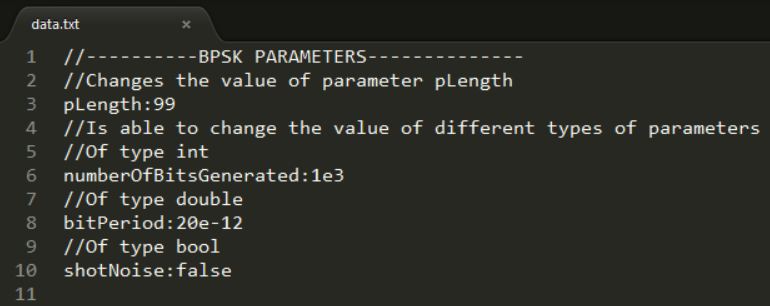
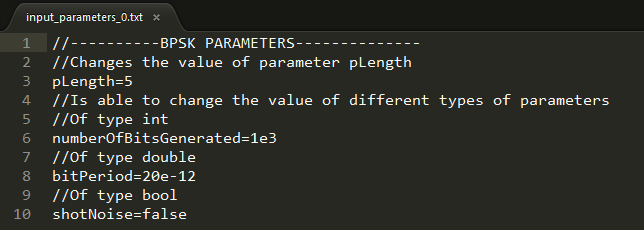
Updated logfile and IPS documentation

Changed region(s): [[0.0, 0.1522, 0.9938, 1.0], [0.0311, 0.0609, 0.2484, 0.1217], [0.0311, 0.0, 0.2795, 0.0304]]

diff --git a/doc/tex/chapter/simulator_structure/simulator_structure.tex b/doc/tex/chapter/simulator_structure/simulator_structure.tex
@@ -1,3 +1,6 @@
+\definecolor{dkgreen}{rgb}{0,0.6,0}
+\definecolor{gray}{rgb}{0.5,0.5,0.5}
+\definecolor{mauve}{rgb}{0.58,0,0.82}
 
 % ------------------------------------------------------------------------
 \chapter{Simulator Structure}
@@ -96,6 +99,15 @@ Figure \ref{fig:homodynesignals} shows a portion of code that consists in the de
 \label{fig:homodynesignals}
 \end{figure}
 
+The list of the input parameters loaded from a file is presented at the top of the output file, as shown in Figure \ref{fig:changedinputparameters}.
+
+\begin{figure}[H]
+\centering
+\includegraphics[width=.50\linewidth]{./chapter/simulator_structure/figures/logfile_input_parameters_changed}
+\caption{Four input parameters where loaded from a file}
+\label{fig:changedinputparameters}
+\end{figure}
+
 \subsection{Testing Log File}
 In directory \textit{doc/tex/chapter/simulator\_structure/test\_log\_file/bpsk\_system/} there is a copy of the BPSK system. You may use it to test the Log File. The main method is located in file \textit{bpsk\_system\_sdf.cpp}
 
@@ -107,114 +119,155 @@ In directory \textit{doc/tex/chapter/simulator\_structure/test\_log\_file/bpsk\_
 % ---------------------------------------------------------------------
 \section{Input Parameters System}
 \subsection{Introduction}
-Each system contains a set of parameters that are used to change its behaviour.
-These parameters are variables whose values may be changed in the code. The Input Parameters System (IPS) allows
-for the parameters to be read from a file, i.e., it is not necessary to change the code in order to change the value
-of the parameters.
-
-\subsection{How To Include The IPS In Your System}
-In order to use the IPS in your system some requirements must be met. For this example we will be using the BPSK system:
-\begin{enumerate}
-\item Your system must include \textbf{netxpto\_20180418.h}. Previous versions of netxpto do not support the IPS.
-\item Create a class that will contain the system parameters. This class must be a derived class of \textbf{SystemParameters}. In this case the created class is called \textbf{BPSKParameters}.
-
-\renewcommand{\figurename}{Figure}
-\begin{figure}[H]
-\centering
-\includegraphics[width=0.7\linewidth]{./chapter/simulator_structure/figures/bpsk_parameter_system}
-\caption{BPSKParameters class is a derived class of SystemParameters}
-\label{fig:ipsderivedclass}
-\end{figure}
-
-\item The created class must have 2 constructors: one that receives no arguments and calls the method \textbf{initializeParameterMap()}; one that receives a string as argument and calls methods \textbf{initializeParameterMap()} and \textbf{readSystemInputParameters(string filename)}. Note that method $\textbf{readSystemInputParameters(string filename)}$ is already implemented and may be called by the user. Only the method \textbf{initializeParameterMap()} must be implemented. An example is shown in Figure \ref{fig:ipsconstructors}.
-
-\renewcommand{\figurename}{Figure}
-\begin{figure}[H]
-\centering
-\includegraphics[width=0.7\linewidth]{./chapter/simulator_structure/figures/bpsk_parameters_constructor}
-\caption{BPSKParameters has 2 constructors}
-\label{fig:ipsconstructors}
-\end{figure}
-
-\item The created class must contain the method \textbf{initializeParameterMap()} that will add all your system's parameters.
-You must implement this method by yourself. To add a parameter you must call \textbf{addParameter(paramName,paramAddress)}, where \textbf{paramName} is a string that represents the name of your parameter and paramAdress is the address of your parameter variable.
-For example, if I want to add the following parameter \textbf{\textit{int} amplitude = 90}, I must call \textbf{addParameter(``amplitude'',\&amplitude)}. Note: Only parameters of types \textbf{int}, \textbf{double} and \textbf{bool} are supported by the IPS. Parameters that are not of these types cannot be added in \textbf{initializeParameterMap()}.
-
-\renewcommand{\figurename}{Figure}
-\begin{figure}[H]
-\centering
-\includegraphics[width=0.8\linewidth]{./chapter/simulator_structure/figures/bpsk_initialize_parameters}
-\caption{All parameters from BPSKParameters are being added}
-\label{fig:ipsparameters}
-\end{figure}
-\end{enumerate}
-
-\begin{table}[H]
-\centering
-\begin{tabulary}{1.0\textwidth}{|p{9cm}|p{1cm}|p{5cm}|}
-\hline
-\multicolumn{3}{|c|}{ \textbf{SystemParameters - Available Methods} } \\
-\hline
-\textbf{Method}                                 & \textbf{Type} & \textbf{Comments} \\ \hline
-addParameter(string name, int* variable)        & void          & Adds a parameter whose value is of type int\\ \hline
-addParameter(string name, double* variable)     & void	        & Adds a parameter whose value is of type double\\ \hline
-addParameter(string name, bool* variable)       & void	        & Adds a parameter whose value is of type bool\\ \hline
-readSystemInputParameters(string inputFilename) & void	        & Reads the parameters from a file.\\ \hline
-\end{tabulary}
-\end{table}	
-
-\subsection{How To Use IPS}
-You may use the IPS in two different ways. You may choose to change the value of the variables in the code itself or
-you may choose to load the values of the variables from a file. There is a constructor for each usage of the IPS.
-We will use the example of the \textbf{BPSKParameters}, that has the following constructors available.
-\begin{table}[H]
-\centering
-\begin{tabulary}{1.0\textwidth}{|p{7cm}|p{8cm}|}
-\hline
-\multicolumn{2}{|c|}{ \textbf{BPSKParameters - Available Constructors} } \\
-\hline
-\textbf{Constructors}               & \textbf{Comments} \\ \hline
-BPSKParameters()                    & Creates an object of BPSKParameters with the default parameter values\\ \hline
-BPSKParameters(string filename)     & Creates an object of BPSKParameters and loads the values from a file\\ \hline
-\end{tabulary}
-\end{table}	
-\subsubsection{Changing Parameters Manually}
-In order to change the values of parameters manually, you need to create an object of your parameter class. You can access and change the values of the parameters directly, since these are public. The following figure shows the example of the BPSKParameters.
-\renewcommand{\figurename}{Figure}
-\begin{figure}[H]
-\centering
-\includegraphics[width=0.8\linewidth]{./chapter/simulator_structure/figures/ips_manual_parameters}
-\caption{An object of BPSKParameters is created. Parameter bufferLength is accessed directly}
-\label{fig:ipsmanualparameters}
-\end{figure}
-
-\subsubsection{Loading Parameters From A File}
-It is possible to load the values of the parameters from a file. First you must create an object of your parameter class, passing to the
-constructor a string with the path to the input file. The following figure shows the example of the BPSKParameters.
-\renewcommand{\figurename}{Figure}
-\begin{figure}[H]
-\centering
-\includegraphics[width=0.8\linewidth]{./chapter/simulator_structure/figures/ips_reading_file}
-\caption{An object of BPSKParameters is created. The relative path to the input file is specified to the constructor}
-\label{fig:ipsfileparameters}
-\end{figure}
+With the Input Parameters System (IPS) it is possible to read the input parameters from a file.
 
 \subsubsection{Format Of The Input File}
-In Figure \ref{fig:ipsfilecontent}, it is possible to observe the contents of the file \textbf{data.txt} used previously to load the values
-of some of the BPSK system's parameters. The input file must follow these properties:
+In Figure \ref{fig:ipsfilecontent}, it is possible to observe the contents of the file \textbf{input\_parameters\_0.txt} used to load the values of some of the BPSK system's input parameters. The input file must respect the following properties:
 \begin{enumerate}
-\item Parameter values can be changed by adding a line in the following format: \textbf{paramName:newValue}, where \textbf{paramName} is the name of the parameter and \textbf{newValue} is the value to be assigned. In Figure \ref{fig:ipsfilecontent}, line 3 changes the value of parameter \textbf{pLength} to 99.
-\item IPS supports scientific notation. In lines 6 and 8 of Figure \ref{fig:ipsfilecontent}, parameters \textbf{numberOfBitsGenerated} and \textbf{bitPeriod} are assigned values in scientific notation. This notation works for the lower case character \textbf{e} and the upper case character \textbf{E}.
-\item If a parameters is assigned the wrong type of value, $\textbf{readSystemInputParameters(string filename)}$ will throw an exception. There is no syntax checking, so the user must be careful when assigning values. For example, if the value 76 is assigned to a parameter of type \textbf{bool} an exception will be thrown.
-\item Not all parameters need to be changed. The BPSK system has 15 parameters, and the file is only changing 4 of them.
-\item The IPS supports comment in the form of the characters \textbf{//}. There will be no error message if a comment does not begin with \textbf{//}, although this is unsafe behavior and is not recommended. The IPS will work normally if this happens.
+\item Input parameter values can be changed by adding a line in the following format: \textbf{paramName=newValue}, where \textbf{paramName} is the name of the input parameter and \textbf{newValue} is the value to be assigned. Line 3 of \textbf{input\_parameters\_0.txt} changes the value of input parameter \textbf{pLength} to 5.
+\item IPS supports scientific notation. In lines 6 and 8 of \textbf{input\_parameters\_0.txt}, input parameters \textbf{numberOfBitsGenerated} and \textbf{bitPeriod} are assigned values in scientific notation. This notation works for the lower case character \textbf{e} and the upper case character \textbf{E}.
+\item If an input parameters is assigned the wrong type of value, method $\textbf{readSystemInputParameters()}$ will throw an exception.
+    A list containing all changed input parameters will be available at the top of the log file.
+\item Not all input parameters need to be changed. The BPSK system has 15 input parameters, and \textbf{input\_parameters\_0.txt} is only changing 4 of them.
+\item The IPS supports comments in the form of the characters \textbf{//}. The comments will only be recognized if placed at the beginning of a line.
 \end{enumerate}
 
 \begin{figure}[H]
 \centering
 \includegraphics[width=0.8\linewidth]{./chapter/simulator_structure/figures/ips_input_file}
-\caption{Content of file data.txt}
+\caption{Content of file input\_parameters\_0.txt}
 \label{fig:ipsfilecontent}
+\end{figure}
+
+\subsubsection{Loading Input Parameters From A File}
+Execute the following command in the Command Line:
+\begin{itemize}
+  \item[] \textbf{.\textbackslash{}some\_system.exe <input\_file\_path> <output\_directory>}
+\end{itemize}
+
+,where \textbf{some\_system.exe} is the name of the executable generated after compiling the project.
+In the case of the BPSK system, the executable is \textbf{bpsk\_system.exe}; \textbf{<input\_file\_path>} is the path to the file containing the new input parameters; \textbf{<output\_directory>} is the directory where the output signals will be written into.
+
+\subsection{How To Include The IPS In Your System}
+In order to use the IPS in your system some requirements must be met. In this illustrative example, we will use the BPSK System:
+\begin{enumerate}
+\item Your system must include \textbf{netxpto\_20180418.h} or later. Previous versions of netxpto do not support the IPS.
+\item Create a class that will contain the system input parameters. This class must be a derived class of \textbf{SystemInputParameters}. In this case the created class is called \textbf{BPSKInputParameters}.
+\item The created class must have 2 constructors: one that receives no arguments and calls the method \textbf{initializeInputParameterMap()}; one that receives \textbf{int argc} and \textbf{char*argv[]} as arguments and calls methods \textbf{initializeInputParameterMap()} and \textbf{readSystemInputParameters()}. Note that method \textbf{readSystemInputParameters()} is already implemented and may be called by the user. Only method \textbf{initializeInputParameterMap()} must be implemented.
+\item The created class must contain the method \textbf{initializeInputParameterMap()} that will add all input parameters.
+You must implement this method. To add an input parameter you must call \textbf{addInputParameter(paramName,paramAddress)}, where \textbf{paramName} is a string that represents the name of your input parameter and \textbf{paramAddress} is the address of your input parameter. Only parameters of types \textbf{int}, \textbf{double} and \textbf{bool} are supported by the IPS. Parameters that are not of these types cannot be added in \textbf{initializeInputParameterMap()}.
+\item The output folder of each signal must be changed. Method \textbf{<SIGNAL>.setFolderName(<param>.getOutputFolderName())} must be called in order to change the output directory of the signals. <SIGNAL> is the object of class Signal and <param> is the object of the input parameter class. An example is shown in Figure \ref{fig:ipsmanualparameters}
+\end{enumerate}
+\pagebreak
+The following code represents the class \textbf{BPSKInputParameters} and can be changed according to the system you are working on.
+\lstset{
+  language=C++,
+  aboveskip=3mm,
+  belowskip=3mm,
+  showstringspaces=false,
+  columns=flexible,
+  basicstyle={\fontsize{7}{9}\ttfamily},
+  numbers=none,
+  numberstyle=\tiny\color{gray},
+  keywordstyle=\color{blue},
+  commentstyle=\color{dkgreen},
+  stringstyle=\color{mauve},
+  breaklines=true,
+  breakatwhitespace=true,
+  tabsize=3
+}
+%%%%%%%%%%%%%%%%%%%%%%%%%%%CODE%%%%%%%%%%%%%%%%%%%%%%%%%%%%%%%%
+\begin{lstlisting}
+class BPSKInputParameters : public SystemInputParameters {
+public:
+	//INPUT PARAMETERS
+	int numberOfBitsReceived{ -1 };
+	int numberOfBitsGenerated{ 1000 };
+	int samplesPerSymbol = 16;
+	int pLength = 5; //The default value of pLength is 5
+	double bitPeriod = 20e-12;
+	double rollOffFactor = 0.3;
+	double signalOutputPower_dBm = -20;
+	double localOscillatorPower_dBm = 0;
+	double localOscillatorPhase = 0;
+	vector<t_iqValues> iqAmplitudeValues = { { -1, 0 } ,{ 1, 0 } };
+	array<t_complex, 4> transferMatrix = { { 1 / sqrt(2), 1 / sqrt(2), 1 / sqrt(2), -1 / sqrt(2) } };
+	double responsivity = 1;
+	double amplification = 1e6;
+	double electricalNoiseAmplitude = 5e-4*sqrt(2);
+	int samplesToSkip = 8 * samplesPerSymbol;
+	int bufferLength = 20;
+	bool shotNoise = false;
+
+	/* Initializes default input parameters */
+	BPSKInputParameters() : SystemInputParameters() {
+		initializeInputParameterMap();
+	}
+
+	/* Initializes input parameters according to the program arguments */
+    /* Usage: .\bpsk_system.exe <input_parameters.txt> <output_directory> */
+	BPSKInputParameters(int argc, char*argv[]) : SystemInputParameters(argc,argv) {
+		initializeInputParameterMap();
+		readSystemInputParameters();
+	}
+
+	//Each parameter must be added to the parameter map by calling addInputParameter(string,param*)
+	void initializeInputParameterMap(){
+		addInputParameter("numberOfBitsReceived", &numberOfBitsReceived);
+		addInputParameter("numberOfBitsGenerated", &numberOfBitsGenerated);
+		addInputParameter("samplesPerSymbol", &samplesPerSymbol);
+		addInputParameter("pLength", &pLength);
+		addInputParameter("bitPeriod", &bitPeriod);
+		addInputParameter("rollOffFactor", &rollOffFactor);
+		addInputParameter("signalOutputPower_dBm", &signalOutputPower_dBm);
+		addInputParameter("localOscillatorPower_dBm", &localOscillatorPower_dBm);
+		addInputParameter("localOscillatorPhase", &localOscillatorPhase);
+		addInputParameter("responsivity", &responsivity);
+		addInputParameter("amplification", &amplification);
+		addInputParameter("electricalNoiseAmplitude", &electricalNoiseAmplitude);
+		addInputParameter("samplesToSkip", &samplesToSkip);
+		addInputParameter("bufferLength", &bufferLength);
+		addInputParameter("shotNoise", &shotNoise);
+	}
+};
+\end{lstlisting}
+%%%%%%%%%%%%%%%%%%%%%%%%%%%%%%%%%%%%%%%%%%%%%%%%%%%%%%%%%%%%%%%%%%%%%%
+
+\begin{table}[H]
+\centering
+\begin{tabulary}{1.0\textwidth}{|p{9cm}|p{1cm}|p{5cm}|}
+\hline
+\multicolumn{3}{|c|}{ \textbf{SystemInputParameters - Methods} } \\
+\hline
+\textbf{Method}                                      & \textbf{Type} & \textbf{Comments} \\ \hline
+addInputParameter(string name, int* variable)        & void          & Adds an input parameter whose value is of type int\\ \hline
+addInputParameter(string name, double* variable)     & void	         & Adds an input parameter whose value is of type double\\ \hline
+addInputParameter(string name, bool* variable)       & void	         & Adds an input parameter whose value is of type bool\\ \hline
+readSystemInputParameters()                          & void	         & Reads the input parameters from a file.\\ \hline
+\end{tabulary}
+\end{table}	
+
+The input parameter class should have 2 constructors.
+The \textbf{BPSKInputParameters} class, has the following constructors available:
+\begin{table}[H]
+\centering
+\begin{tabulary}{1.0\textwidth}{|p{5cm}|p{10cm}|}
+\hline
+\multicolumn{2}{|c|}{ \textbf{BPSKInputParameters - Constructors} } \\
+\hline
+\textbf{Constructors}                   & \textbf{Comments} \\ \hline
+BPSKInputParameters()                        & Creates an object of BPSKInputParameters with the default input parameters' values\\ \hline
+BPSKInputParameters(int argc, char*argv[])   & Creates an object of BPSKInputParameters and loads the values according to the program arguments passed in the command line\\ \hline
+\end{tabulary}
+\end{table}	
+
+In order to use the values of the input parameters, an object of the input parameter class must be created. The following figure shows the example of the BPSKInputParameters.
+\renewcommand{\figurename}{Figure}
+\begin{figure}[H]
+\centering
+\includegraphics[width=0.8\linewidth]{./chapter/simulator_structure/figures/ips_manual_parameters}
+\caption{An object of BPSKInputParameters is created. Parameter bufferLength is accessed directly}
+\label{fig:ipsmanualparameters}
 \end{figure}
 
 \cleardoublepage 
